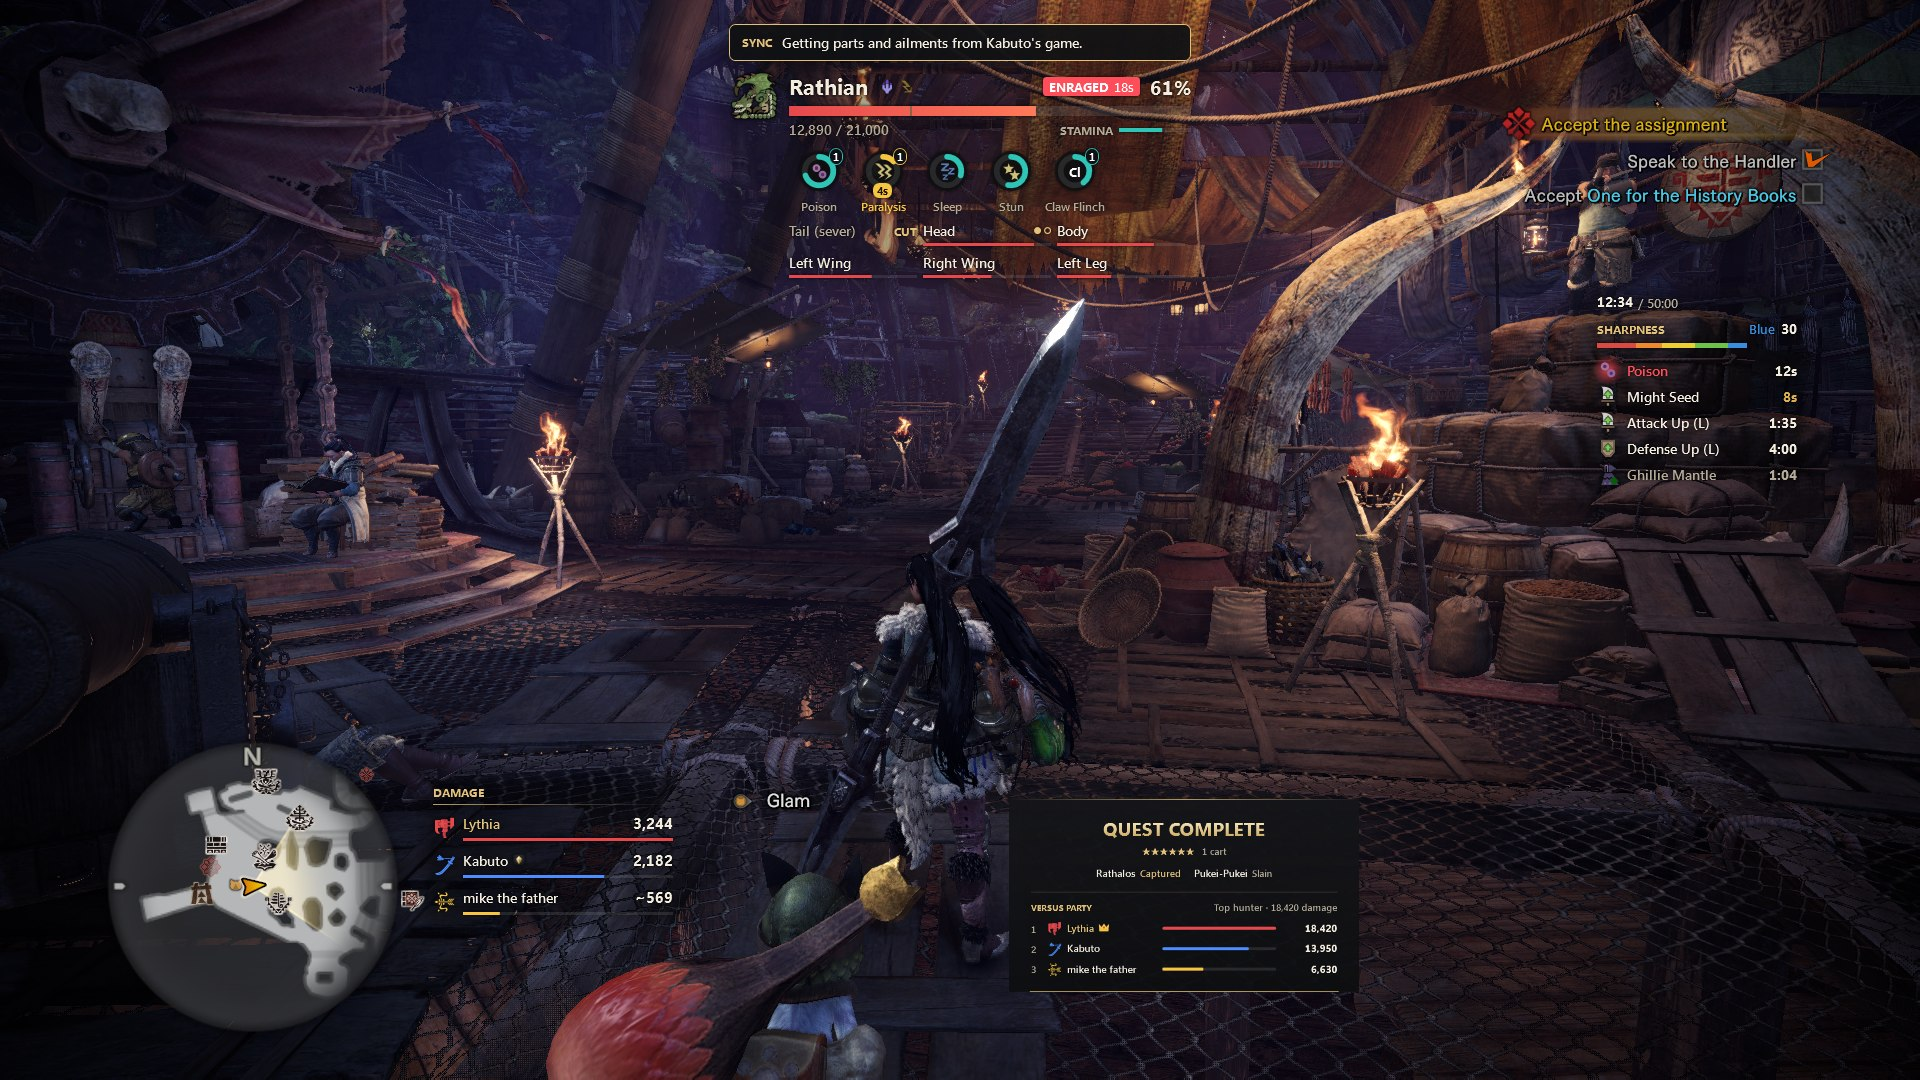
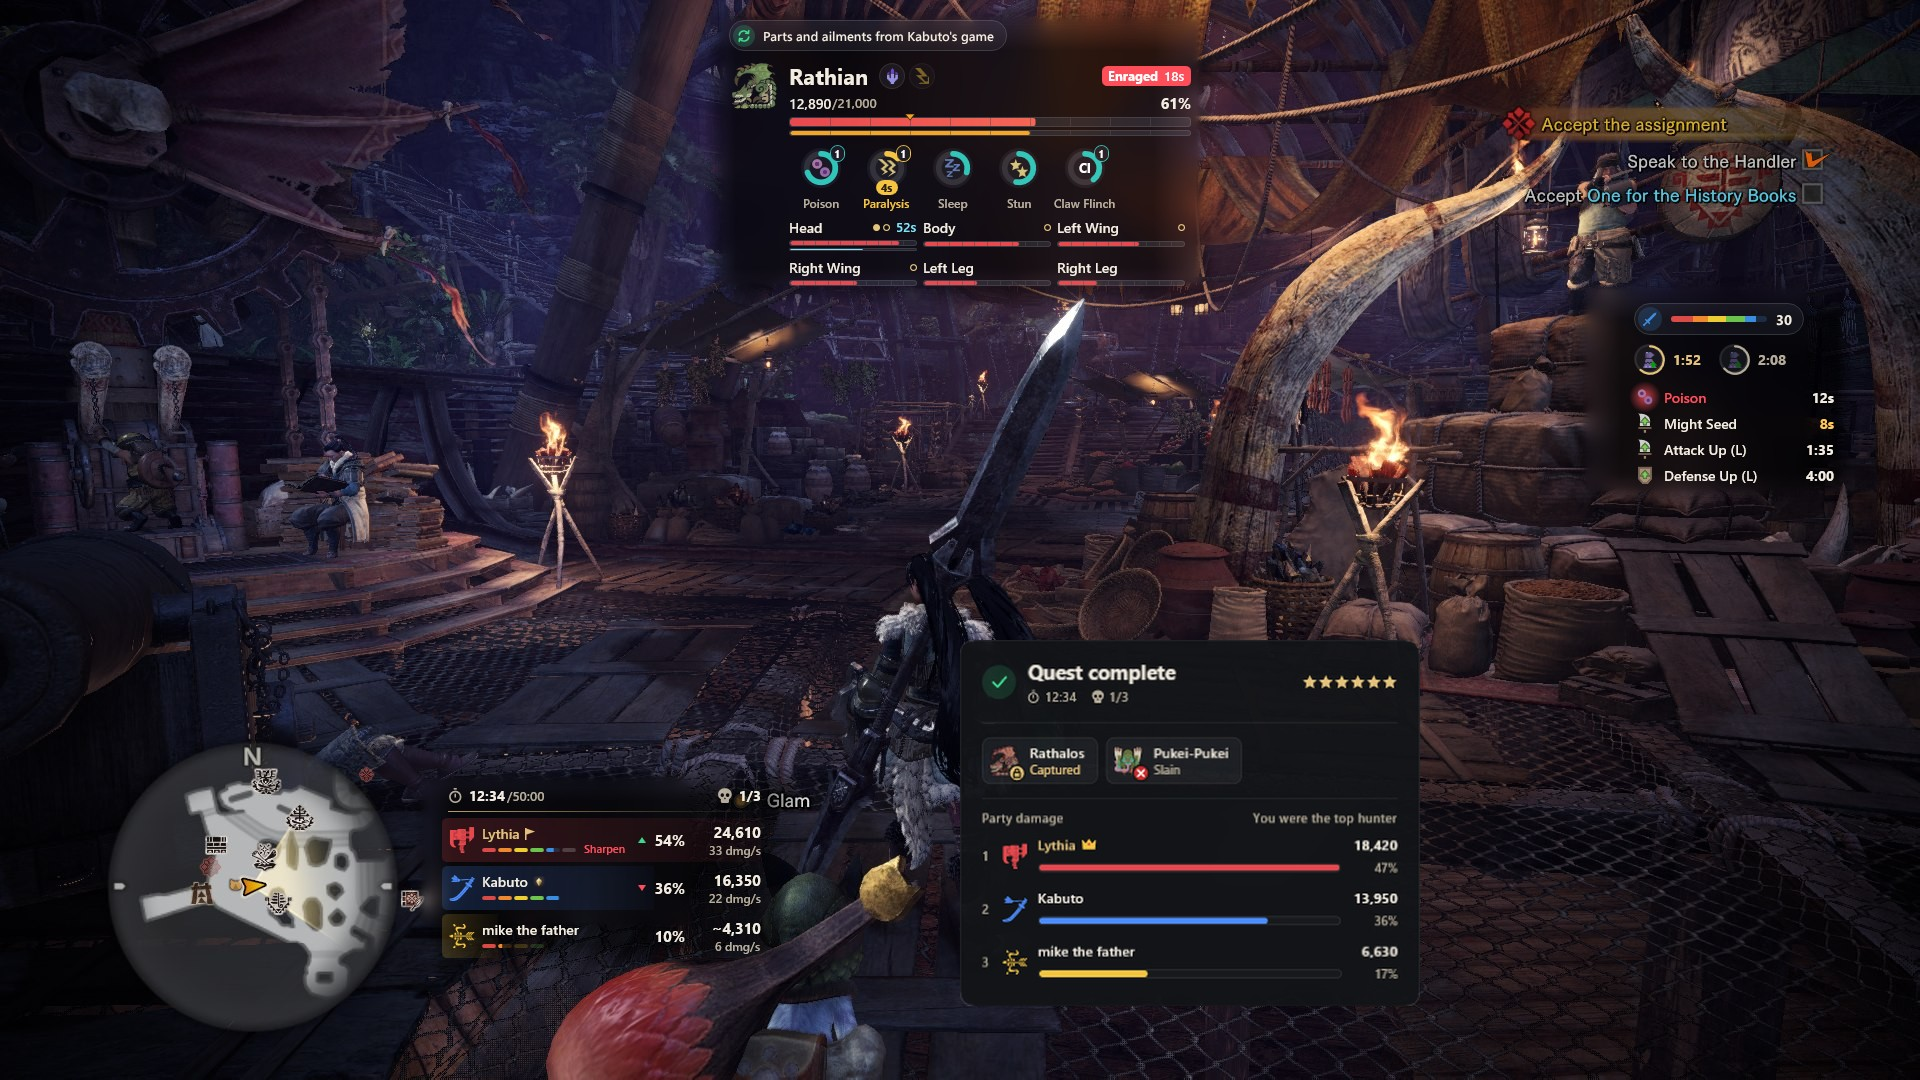
Refresh the in-game overlay screenshot and show it in the README, current version in the app screenshot

diff --git a/README.md b/README.md
@@ -19,6 +19,8 @@
 A clean, fast overlay for **Monster Hunter: World** on PC. 
 Aether only **reads** the game. It never changes it, injects into it or hooks it, so it can't break your game or your save.
 
+<img src="docs/overlay.jpg" alt="Aether in game: monster, buffs, team damage and the hunt recap"/>
+
 ## Requirements
 
 - Monster Hunter: World with Iceborne on Steam (Windows 10 or 11)
